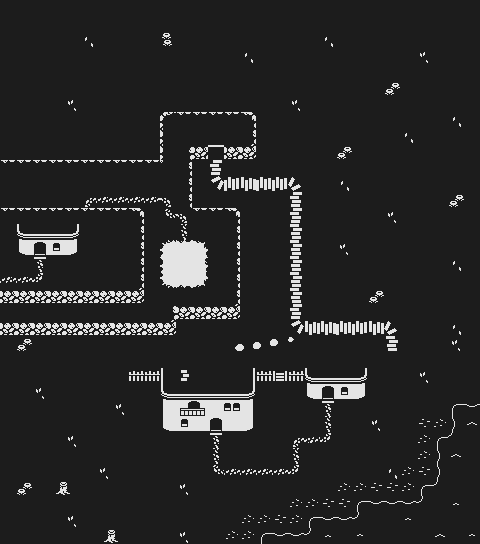
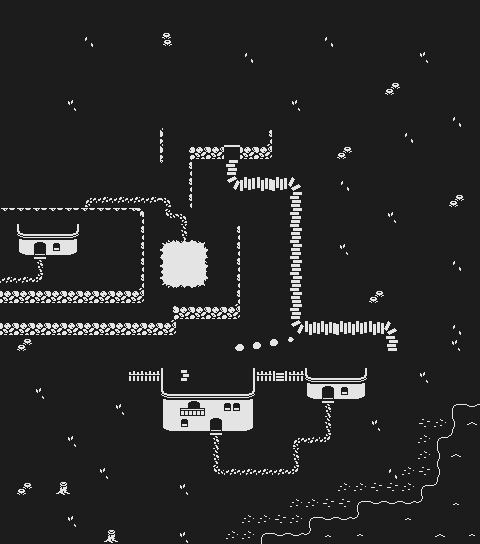
ADD: mine interior

Changed region(s): [[0.4375, 0.25, 0.5625, 0.375], [0.5, 0.1875, 0.5312, 0.2188], [0.4688, 0.375, 0.5, 0.4062]]

diff --git a/include/region.h b/include/region.h
@@ -36,20 +36,26 @@
     const static char *REGION_PATH[] = {
         "data/regions/start.region",
         "data/regions/mine.region",
-        "data/regions/start_house_interior.region"
+        "data/regions/start_house_interior.region",
+        "data/regions/mine_interior_top.region",
+        "data/regions/mine_interior_bottom.region"
     };
 
     enum {
         START_REGION,
         MINE_REGION,
         START_HOUSE_INTERIOR,
+        MINE_INTERIOR_TOP,
+        MINE_INTERIOR_BOTTOM,
         REGION_NB
     };
 
     const static int REGION_MAP_JMP_TABLE[REGION_NB] = {
-        0, // Start_region (id 0) is linked to map id 0 (base map)
-        0,
-        1,
+        BASE_MAP, // Start_region (id 0) is linked to map id 0 (base map)
+        BASE_MAP,
+        START_HOUSE_MAP,
+        MINE_INTERIOR_MAP,
+        MINE_INTERIOR_MAP
     };
 
 #endif /* !REGION_H_ */

diff --git a/src/regions/create_region.c b/src/regions/create_region.c
@@ -37,8 +37,14 @@ void load_region(game_t *game, region_t *region)
 
 void link_regions(game_t *game)
 {
-    game->play->region_list[START_REGION]->top = game->play->region_list[MINE_REGION];
-    game->play->region_list[MINE_REGION]->bottom = game->play->region_list[START_REGION];
+    game->play->region_list[START_REGION]->top =
+        game->play->region_list[MINE_REGION];
+    game->play->region_list[MINE_REGION]->bottom =
+        game->play->region_list[START_REGION];
+    game->play->region_list[MINE_INTERIOR_TOP]->bottom =
+        game->play->region_list[MINE_INTERIOR_BOTTOM];
+    game->play->region_list[MINE_INTERIOR_BOTTOM]->top =
+        game->play->region_list[MINE_INTERIOR_TOP];
 }
 
 void init_all_regions(game_t *game)

diff --git a/include/map.h b/include/map.h
@@ -25,12 +25,14 @@
 
     const static char *MAP_PATH[] = {
         "assets/images/maps/base/",
-        "assets/images/maps/start_house_interior/"
+        "assets/images/maps/start_house_interior/",
+        "assets/images/maps/mine_interior/"
     };
 
     enum {
         BASE_MAP,
         START_HOUSE_MAP,
+        MINE_INTERIOR_MAP,
         MAP_NB
     };
 
